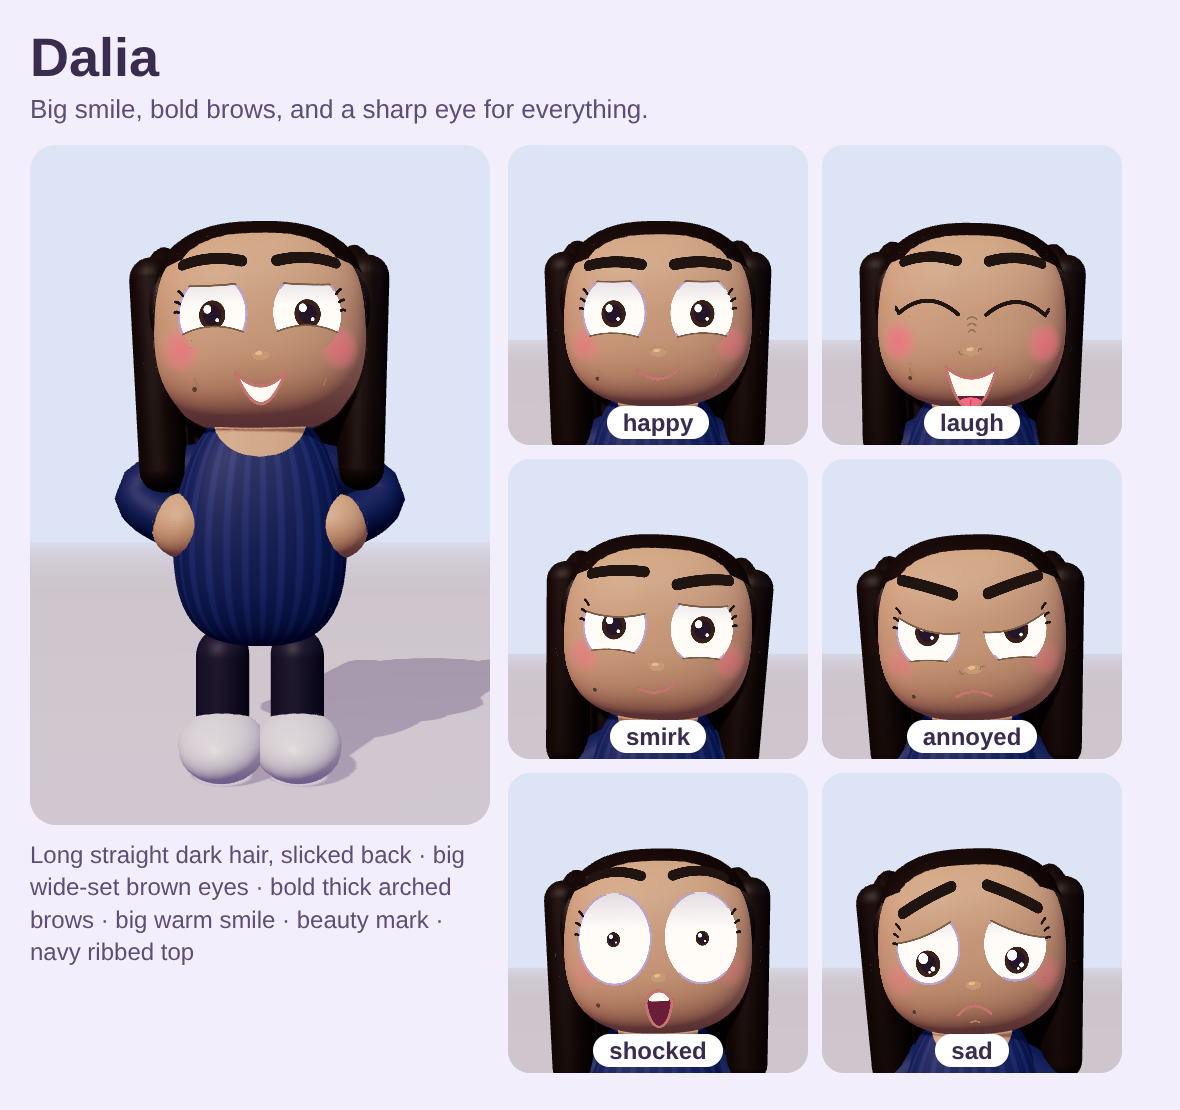
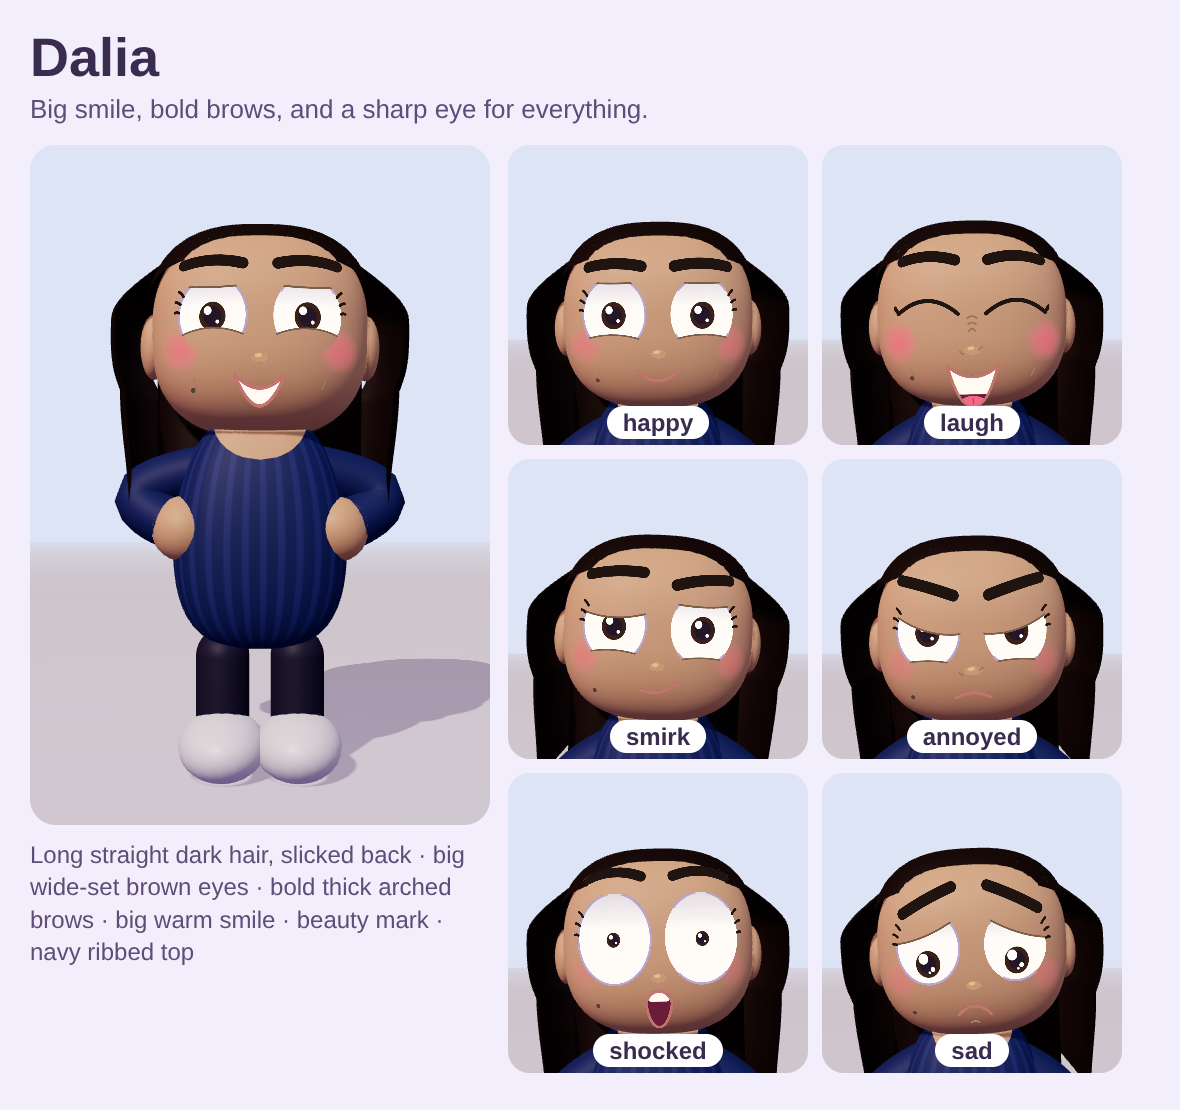
Dalia: side hair is one continuous curtain from the top down each side (no ponytail look, no gaps)
Claude-Session: https://claude.ai/code/session_01Kz45xjeG9hM21H2JXSeFXF

diff --git a/characters/expressive/body.js b/characters/expressive/body.js
@@ -172,9 +172,16 @@ export function createExpressiveKit(THREE, RoundedBoxGeometry, kit) {
     else if (st === 'long') {
       cap(); if (O.hairFlow) { const bk = hb(rx * 2.0, 3.5, 1.3, 0, -1.25, -rz * 0.62, 0.62); bk.scale.set(1, 1, 1); } else hb(rx * 2.15, 3.3, 0.9, 0, -1.4, -rz * 0.7, 0.45);
       for (const s of [-1, 1]) {
-        if (O.hairFlow) {   // option: the side hair flows down from the cap (no gap at the temples): tall soft locks that start up inside the cap and a blob that fills the temple
-          const lock = hb(0.62, 3.1, 1.55, s * rx * 0.95, -0.55, -0.3, 0.3); lock.rotation.z = -s * 0.04;
-          const t = ball(head, 0.5, hair, s * rx * 0.9, ry * 0.2, -0.3, { m: { roughness: 0.5 } }); t.scale.set(0.75, 1.9, 1.7);
+        if (O.hairFlow) {   // option: ONE continuous curtain of hair per side. It starts inside the cap, hugs the side of the head, then falls straight down (no separate pieces, no ponytail look).
+          const R = 46, C = 18, y0 = ry * 0.82, yb = -2.35, zf = 0.62, zb = -rz * 0.8, hn = HD.n, pos = [], idx = [], sm = t => { t = Math.max(0, Math.min(1, t)); return t * t * (3 - 2 * t); };
+          const xh = (y, z) => rx * Math.pow(Math.max(0.0001, 1 - Math.pow(Math.abs(y / ry), hn) - Math.pow(Math.abs(z / rz), hn)), 1 / hn);
+          for (let r = 0; r < R; r++) {
+            const u = r / (R - 1), y = lerp(y0, yb, u), yy = Math.max(y, -ry * 0.55), off = 0.5 * sm((y0 - y) / 0.9) + 0.04, zc = (zf + zb) / 2, sh = u > 0.82 ? Math.sqrt(Math.max(0.02, 1 - Math.pow((u - 0.82) / 0.18, 2))) : 1;
+            for (let c = 0; c < C; c++) { const z = zc + (lerp(zf, zb, c / (C - 1)) - zc) * sh, x = xh(yy, z) * (1 - 0.1 * sm((-ry * 0.55 - y) / 1.6)) + off; pos.push(s * x, y, z); }
+          }
+          for (let r = 0; r < R - 1; r++) for (let c = 0; c < C - 1; c++) { const a0 = r * C + c, b0 = a0 + 1, c0 = a0 + C, d0 = c0 + 1; if (s > 0) idx.push(a0, c0, b0, b0, c0, d0); else idx.push(a0, b0, c0, b0, d0, c0); }
+          const g = new THREE.BufferGeometry(); g.setAttribute('position', new THREE.Float32BufferAttribute(pos, 3)); g.setIndex(idx); g.computeVertexNormals();
+          const hm = hmat.clone(); hm.side = THREE.DoubleSide; const cur = new THREE.Mesh(g, hm); cur.castShadow = true; head.add(cur);
         } else hb(0.55, 2.5, 1.5, s * rx * 0.98, -0.6, -0.25);
       }
     }
